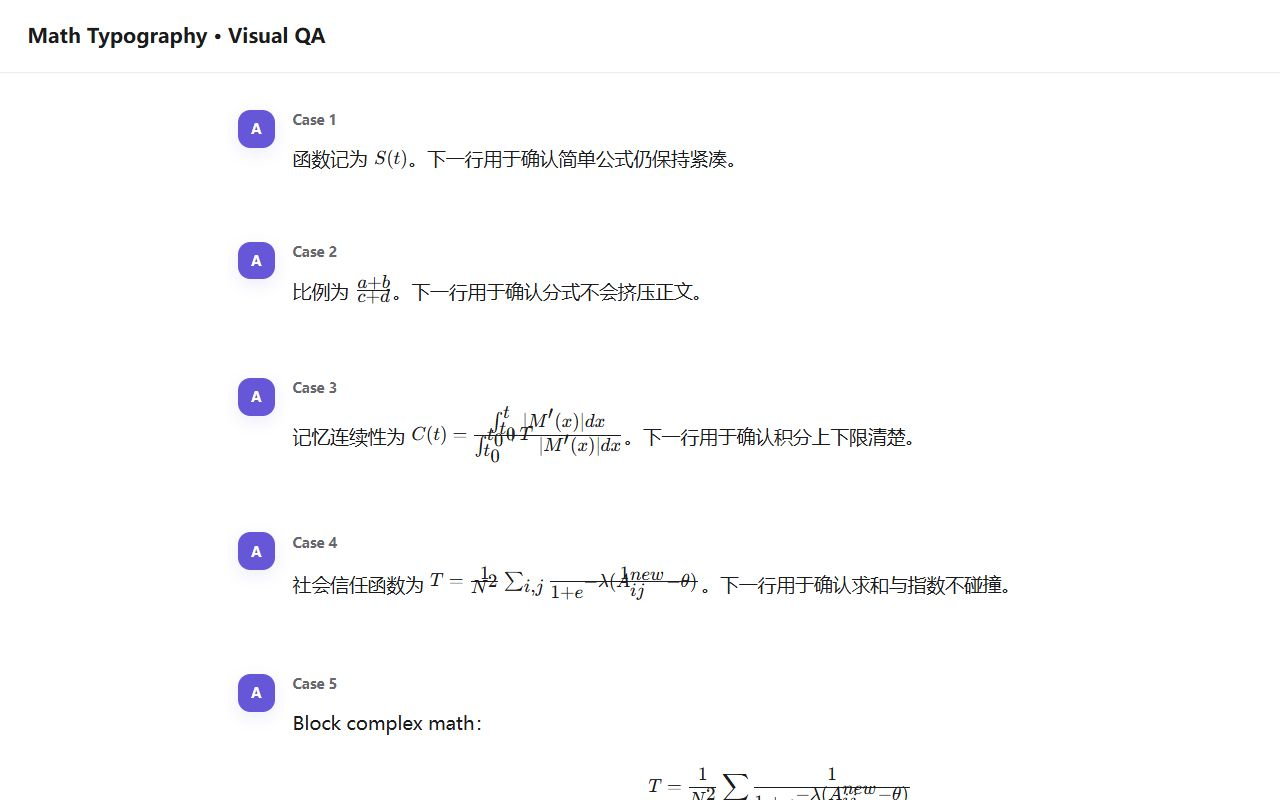
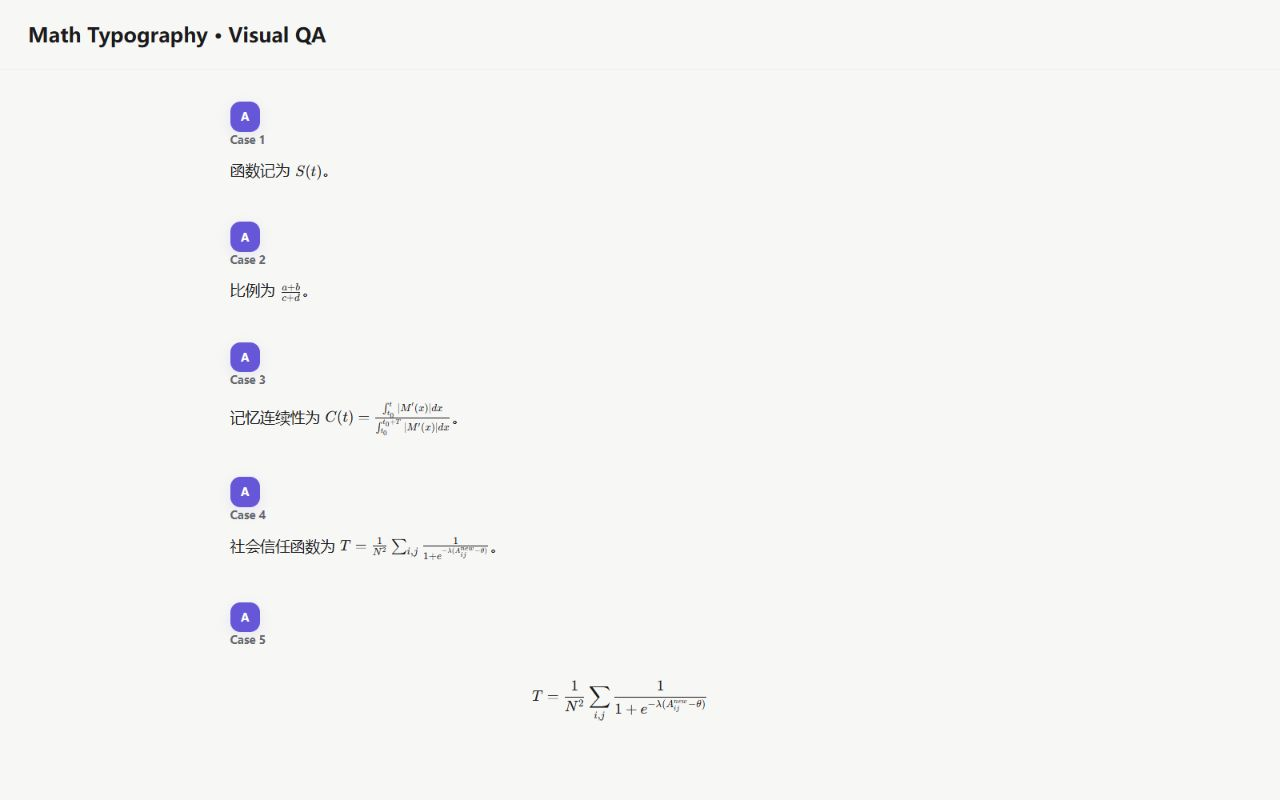
fix(demo-chat): align KaTeX styles and tall inline spacing。

diff --git a/demo-chat-app/frontend/src/components/Message/MarkdownMessage.test.tsx b/demo-chat-app/frontend/src/components/Message/MarkdownMessage.test.tsx
@@ -106,6 +106,21 @@ describe("MarkdownMessage", () => {
     await act(async () => root.unmount());
   });
 
+  it("distinguishes tall inline operators from a simple inline fraction", async () => {
+    const root = createRoot(container);
+    await act(async () => root.render(<MarkdownMessage content={[
+      "比例为 $\\frac{a+b}{c+d}$。",
+      "",
+      "记忆连续性为 $C(t)=\\frac{\\int_{t_0}^{t}|M'(x)|dx}{\\int_{t_0}^{t_0+T}|M'(x)|dx}$。",
+      "",
+      "社会信任函数为 $T=\\frac{1}{N^2}\\sum_{i,j}\\frac{1}{1+e^{-\\lambda(A_{ij}^{new}-\\theta)}}$。",
+    ].join("\n")} />));
+
+    expect(container.querySelectorAll(":not(.katex-display) > .katex:has(.mfrac)")).toHaveLength(3);
+    expect(container.querySelectorAll(":not(.katex-display) > .katex:has(.mop)")).toHaveLength(2);
+    await act(async () => root.unmount());
+  });
+
   it("keeps the message readable when one math expression is invalid", async () => {
     const root = createRoot(container);
     await act(async () => root.render(<MarkdownMessage content={

diff --git a/demo-chat-app/frontend/src/styles.css b/demo-chat-app/frontend/src/styles.css
@@ -162,7 +162,7 @@ button:focus-visible,input:focus-visible,select:focus-visible,textarea:focus-vis
 .markdown-content th { background:var(--bg-app); font-weight:650; }
 .markdown-content .katex { font-size:1em; }
 .markdown-content :not(.katex-display) > .katex { display:inline-block; vertical-align:middle; margin-inline:.03em; padding-block:.14em; }
-.markdown-content :not(.katex-display) > .katex:has(.mfrac,.mop,.delimsizing) { padding-block:.24em; }
+.markdown-content :not(.katex-display) > .katex:has(.mop) { padding-block:.24em; }
 .markdown-content .katex-display { max-width:100%; margin:1.25em 0; padding:.28em 0; overflow-x:auto; overflow-y:hidden; }
 .markdown-content .katex-display > .katex { display:inline-block; min-width:max-content; }
 .markdown-content .katex-error { color:var(--danger); overflow-wrap:anywhere; }
